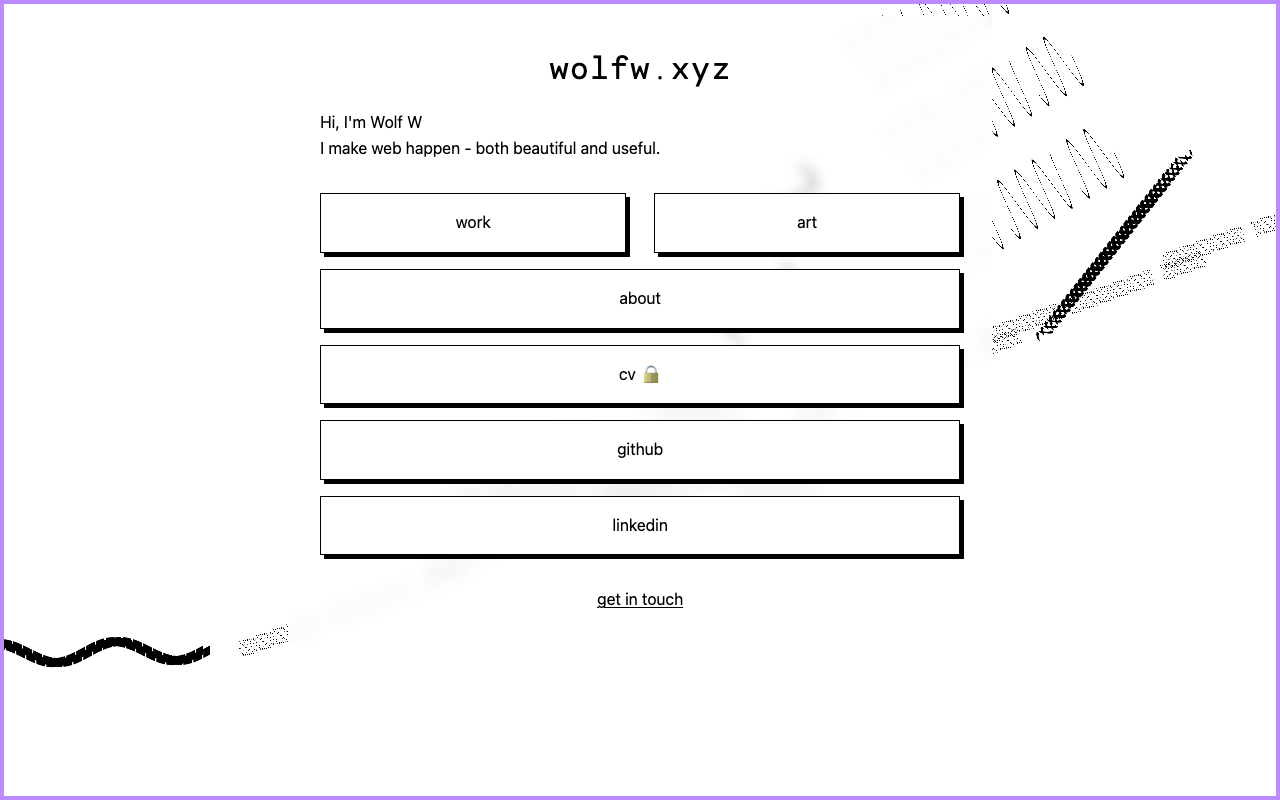
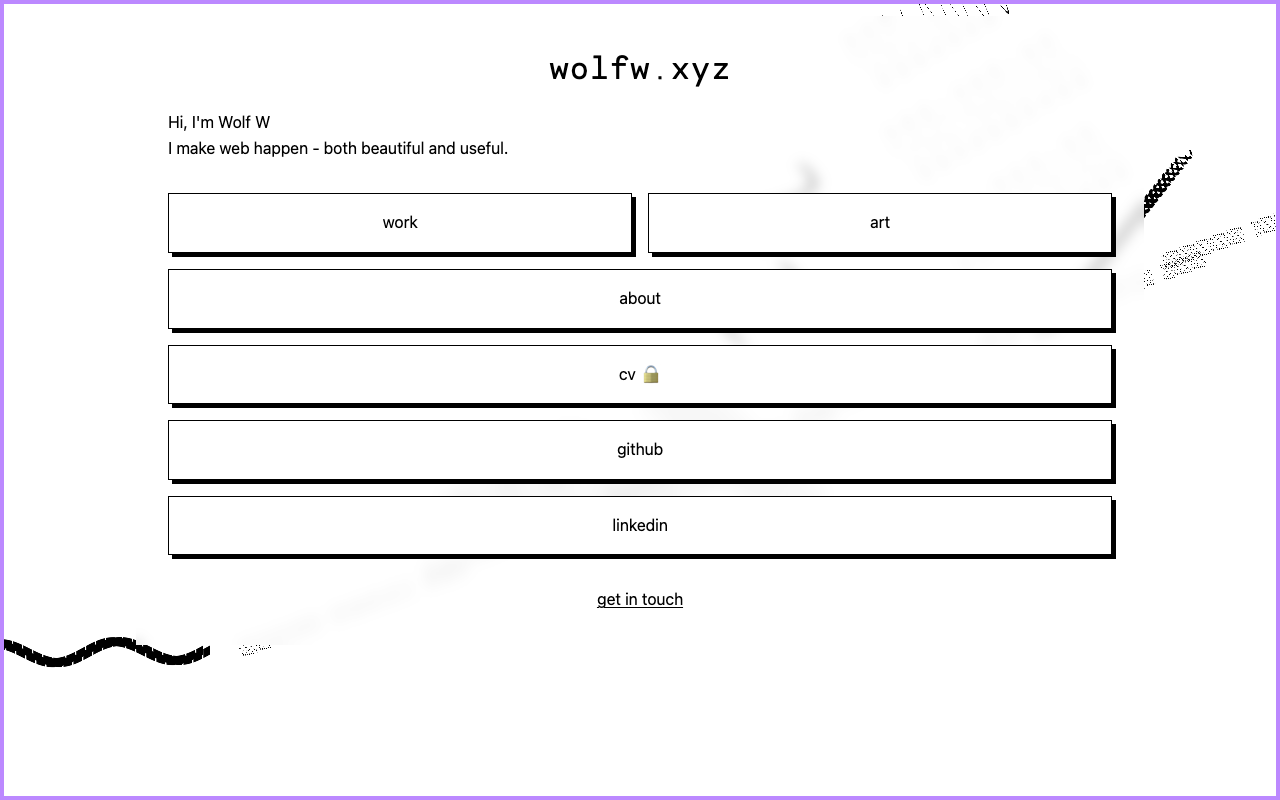
responsive: container queries inside the column, tiers at the shell
design/frontend-architecture.md §1. The rule it states is the one now
implemented: components respond to the COLUMN, only the page shell responds to
the viewport. The column's width is min(640px, 100vw - 2*padding), so a
1440px and a 2560px viewport have an identical column and must have identical
component behaviour — which a viewport media query cannot express without
modelling the centring arithmetic.

- main gains container-type: inline-size / container-name: column; the compact
  tier (badge overlap, fact slack) is now a @container rule, not a viewport one.
- Four tiers, measured: gallery 1440px plate 1008 / image 880 / prose 544;
  capped 1024px and comfortable 768px plate 704 / image 608 / prose 544
  (legacy); compact 375px everything 287, no overflow anywhere.
- The measure split. Eighteen pages are image-led and capping their images at
  the prose measure was the largest responsive mistake in the port. Above the
  gallery tier the PLATE widens to the media measure while prose keeps its own
  measure inside it, and both keep the same left edge — the grid relation
  typography.md §2.3 asks for.
  The first attempt used negative-margin breakout and it does not work here: the
  image lives inside .project-block, so any breakout is clamped by its
  container. Measured before the change: imgW 544 at 1440px; after: 880.
- The button pair is a grid (auto-fit + minmax(16rem, 1fr)) instead of
  `width: calc(50% - 3rem)` plus a breakpoint to undo it. Measured: 464px each
[…]

diff --git a/rebuild/src/styles/global.css b/rebuild/src/styles/global.css
@@ -93,6 +93,14 @@ main {
   padding: var(--pad-main);
   position: relative;
   z-index: 1;
+  /* frontend-architecture.md §1.2: components respond to the COLUMN, only the
+     shell responds to the viewport. The column's width is
+     min(640px, 100vw - 2*padding), so two viewports of 1440px and 2560px have an
+     identical column and must have identical component behaviour — which a
+     viewport media query cannot express without modelling the centring
+     arithmetic. Baseline: Chrome 105, Firefox 110, Safari 16. */
+  container-type: inline-size;
+  container-name: column;
   /* The plate. Generalises what main.whitebox has always done (below). */
   background: color-mix(in srgb, var(--c-sheet) 82%, transparent);
   backdrop-filter: blur(6px);
@@ -205,15 +213,18 @@ a.button {
 }
 
 /* legacy .doubleButton { display:flex; justify-content:space-between } and
- * .doubleButton .button { width:calc(50% - 3rem); align-self:flex-start } */
+ * .doubleButton .button { width:calc(50% - 3rem); align-self:flex-start }
+ *
+ * That width arithmetic is the legacy's own, and it has the defect the
+ * architecture paper names (frontend-architecture.md §1.4): a 3rem baked into a
+ * width calculation rather than expressed as a gap, so at 640px it resolved to
+ * two 272px buttons with a 96px hole between them, and the "stack below" rule
+ * needed a breakpoint to undo. `auto-fit` + `minmax` gives side-by-side above
+ * 16rem and stacked below it, with no breakpoint at all. */
 .double-button {
-  display: flex;
-  justify-content: space-between;
-}
-
-.double-button .button {
-  width: calc(50% - 3rem);
-  align-self: flex-start;
+  display: grid;
+  grid-template-columns: repeat(auto-fit, minmax(min(100%, 16rem), 1fr));
+  gap: var(--space-2);
 }
 
 /* legacy .textlink { margin-top:2rem; display:inline-block } */
@@ -551,13 +562,8 @@ a {
     margin-bottom: var(--space-1);
   }
 
-  .double-button {
-    flex-wrap: wrap;
-  }
-
-  .double-button .button {
-    width: 100%;
-  }
+  /* The button pair is a grid now; `auto-fit` handles the stack, so the
+     flex-wrap/width pair this used to need is gone (see .double-button). */
 
   .project-video {
     margin: 0 0 var(--space-2);
@@ -570,6 +576,56 @@ a {
 @media screen and (max-width: 400px) {
   main {
     padding: var(--pad-main-compact);
+  }
+}
+
+/* ---- Media measure (frontend-architecture.md §1.4) -----------------------
+ * Eighteen of this site's pages are image-led, and capping their images at the
+ * prose measure is the largest responsive mistake in the port: a 1000px
+ * thumbnail displayed at 640px on a 2560px display.
+ *
+ * The first attempt here used the common "break out with negative margins"
+ * trick and it does not work in this layout: the image lives inside
+ * .project-block, and any breakout is clamped by its container. The paper's own
+ * answer is better — "the media slot breaks out; the COLUMN does not grow" —
+ * so above the gallery tier the PLATE (which is main's background) widens to
+ * the media measure, prose keeps its own measure inside it, and both keep the
+ * same left edge. That left edge is the grid relation §2.3 asks for.
+ * -------------------------------------------------------------------------- */
+
+.project-block,
+.cvlist {
+  max-width: var(--measure-media);
+  margin-inline: auto;
+}
+
+/* Prose keeps its own measure inside the media slot. `p` already carries it
+ * globally; lists and section headings did not. */
+.project-block :where(ul, ol, blockquote),
+.cvlist :where(ul, ol, blockquote, h2, h3) {
+  max-width: var(--measure-text);
+}
+
+@media screen and (min-width: 1200px) {
+  /* The plate becomes the media frame; +2*padding because max-width is the
+   * content box and the padding is outside it. */
+  main {
+    max-width: calc(var(--measure-media) + 2 * var(--pad-main));
+  }
+}
+
+/* Compact tier, expressed against the COLUMN rather than the viewport
+ * (§1.2/§1.3): inside a narrow column the listing badge's 48px overlap is most
+ * of a short image's height. */
+@container column (width < 32rem) {
+  .listtitle {
+    margin-top: -1.5rem;
+  }
+
+  .fact {
+    /* Already min-height; at the compact tier even that is slack. */
+    min-height: 0;
+    margin-bottom: var(--space-4);
   }
 }
 

diff --git a/rebuild/src/styles/tokens.css b/rebuild/src/styles/tokens.css
@@ -97,7 +97,15 @@
    * reads as left-weighted even with correct centring.
    * ---------------------------------------------------------------------- */
 
-  --measure-main: 640px;   /* the column, and the media maximum */
+  --measure-main: 640px;   /* the column, and the prose ceiling */
+  /* Media, per frontend-architecture.md §1.4: "images are no longer the
+     constraint" above the gallery tier (>=1200px), where the column has stopped
+     growing but the viewport has not. Below it, media is the legacy 640px.
+     The number above 1200px is a design choice — the paper specifies that it
+     steps up, not by how much — 880px is 1.375x the column, wide enough for
+     the 1000px-wide legacy thumbnails to read and narrow enough that a single
+     image still governs the fold on a 1440px screen. */
+  --measure-media: 640px;
   /* typography.md §2.3: prose is measured in `em`, not `ch`. In a proportional
      face `ch` is the advance of the digit "0" (~0.6em) while average lowercase
      is ~0.5em, so `ch` over-counts by ~20% and silently produces a 75+
@@ -152,6 +160,15 @@
    * on both surfaces. */
   --focus-ring: 2px solid var(--c-ink);
   --focus-offset: 2px;
+}
+
+/* Gallery tier: the column is capped at 640px, so media is free to be wider
+   (frontend-architecture.md §1.3). The only viewport-scoped rule in the layout
+   layer; everything inside the column is a container query. */
+@media screen and (min-width: 1200px) {
+  :root {
+    --measure-media: 880px;
+  }
 }
 
 /* ---- Reduced motion --------------------------------------------------------
